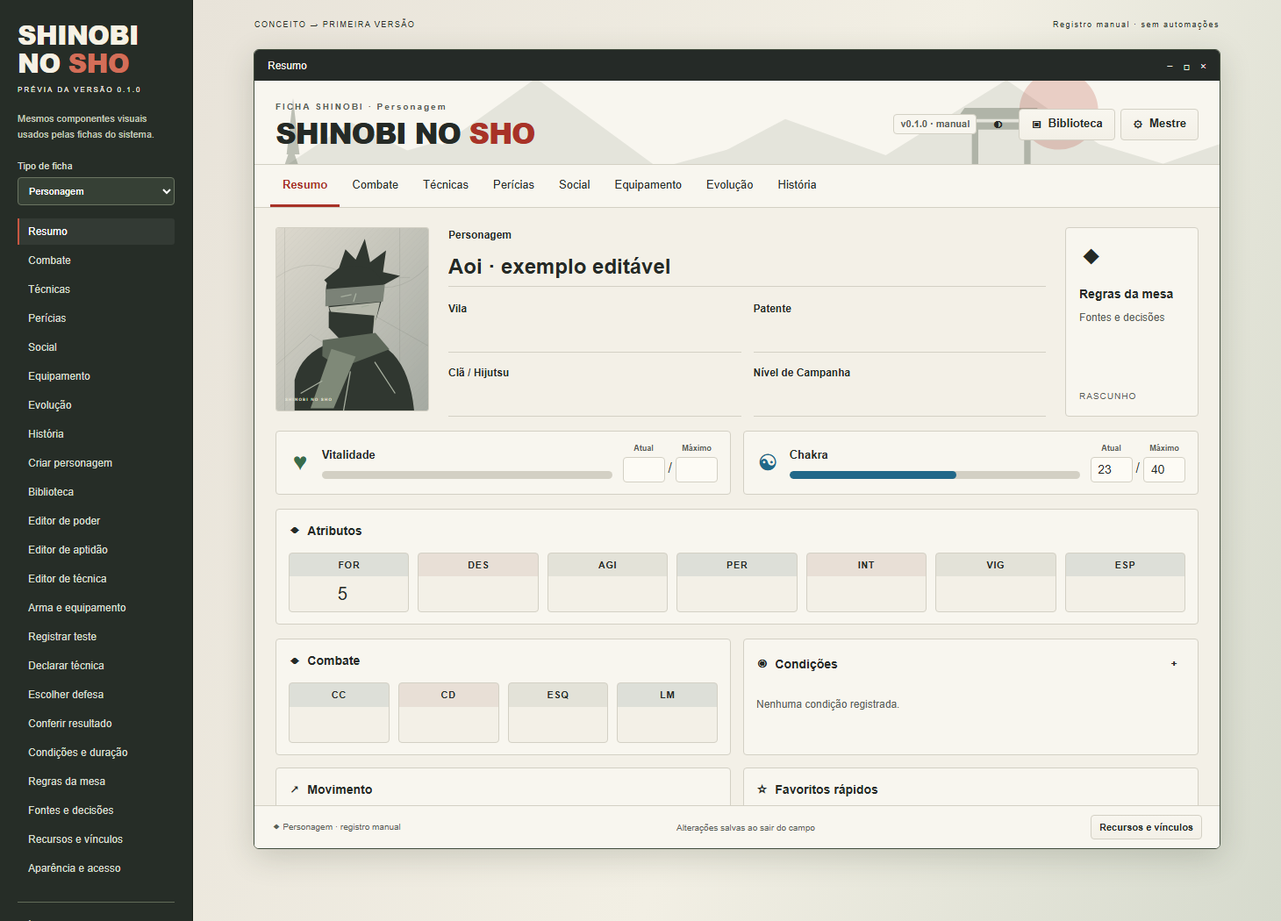
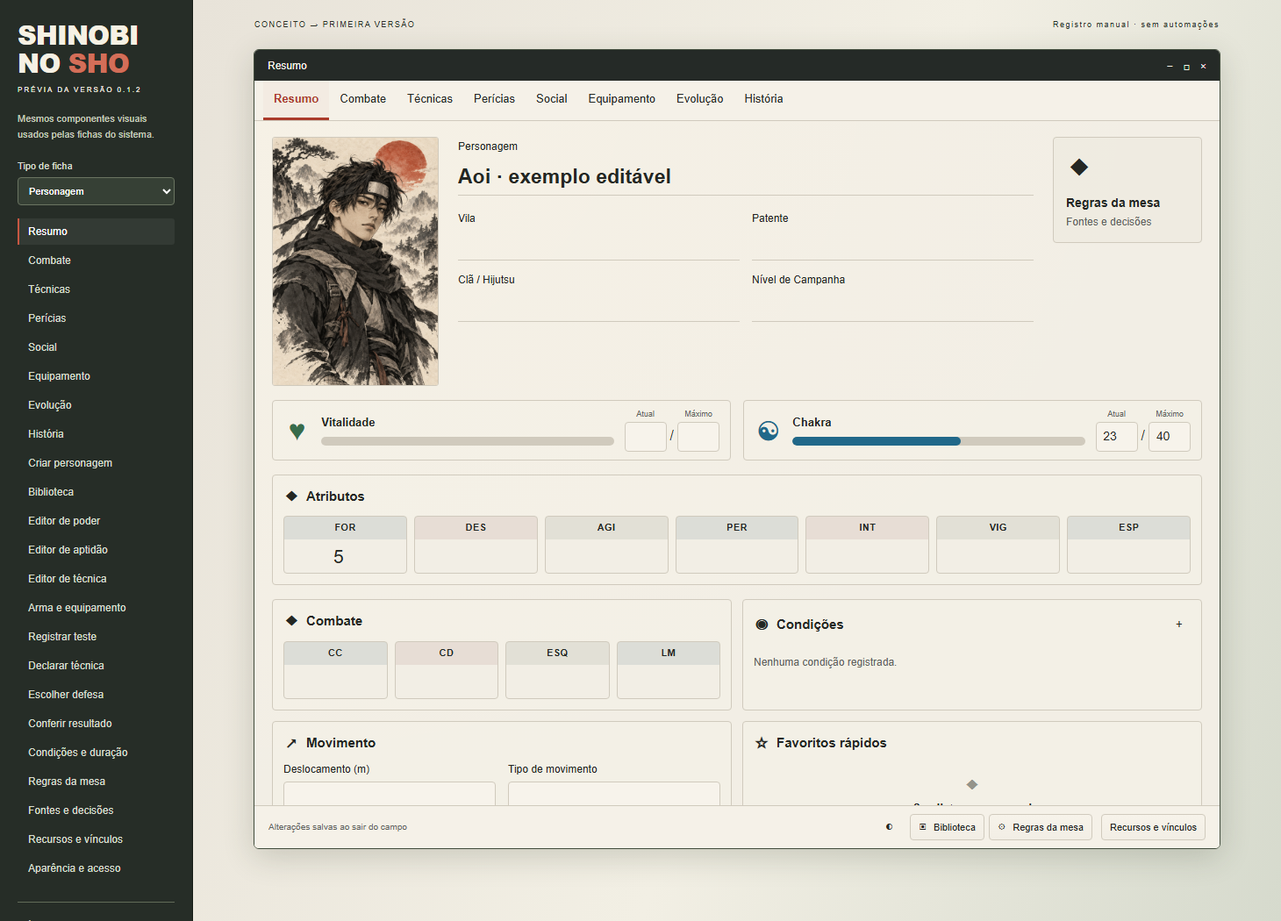
fix: aproxima layout dos conceitos e mantém cadastros na ficha

diff --git a/styles/concept.css b/styles/concept.css
@@ -1,0 +1,152 @@
+/* Composition aligned to the approved concept boards. Scoped overrides also
+   isolate the sheet from Foundry's heading fonts and fixed button heights. */
+.sns-app .sns-surface {
+  --sns-bg:#f2eee5;--sns-card:#f7f3ea;--sns-input:#f7f3eb;
+  --sns-ink:#242723;--sns-muted:#62645c;--sns-line:#d0cabd;
+  --sns-red:#ab3b2b;--sns-red-hover:#8c2d21;
+  --font-h1:Arial,sans-serif;--font-h2:Arial,sans-serif;
+  --font-h3:Arial,sans-serif;--font-h4:Arial,sans-serif;
+  font:14px/1.45 Arial,"Segoe UI",sans-serif;
+  background-image:radial-gradient(ellipse at top left,#fff8e750,transparent 70%);
+}
+.sns-app .sns-surface :is(h1,h2,h3,h4,label,strong,b,input,textarea,select,button,summary) {font-family:Arial,"Segoe UI",sans-serif;}
+.sns-app .sns-surface :is(h2,h3,h4) {text-transform:none;letter-spacing:0;}
+.sns-app .sns-surface h2 {font-size:21px;line-height:1.3;}
+.sns-app .sns-surface h3 {font-size:15px;line-height:1.35;}
+.sns-app .sns-surface button {height:auto;line-height:1.35;}
+.sns-app .sns-btn {font-size:13px;min-height:36px;padding:7px 12px;font-weight:500;}
+.sns-app .sns-btn.primary {background:linear-gradient(#b24634,#a43728);border-color:#943322;box-shadow:inset 0 1px 0 #ffffff24;}
+.sns-app .sns-btn.primary:hover {background:var(--sns-red-hover);}
+.sns-app .sns-body {padding:18px 20px;}
+.sns-app .sns-field>span {font-size:12px;font-weight:500;}
+.sns-app input:not([type=checkbox]),.sns-app select {min-height:34px;font-size:14px;line-height:1.4;}
+.sns-app textarea {font-size:14px;}
+.sns-app .sns-panel-heading {background:none;border:0;padding:14px 20px 0;}
+.sns-app .sns-panel-heading>h2 {font-size:18px;}
+.sns-app .sns-panel-heading>span {display:none;}
+.sns-app .sns-panel-heading:is(.sns-panel-create,.sns-panel-library,.sns-panel-settings,.sns-panel-sources,.sns-panel-resources,.sns-panel-impact) {display:none;}
+.sns-app .sns-tabs {padding:0 10px;background:#f5f1e8;min-height:45px;}
+.sns-app .sns-tabs button {font-size:13px;min-height:45px;padding:8px 12px;}
+.sns-app .sns-tabs button.active {background:#b34d3608;}
+.sns-app .sns-footer {padding:9px 16px;font-size:10px;gap:10px;background:#f5f1e8;}
+.sns-app .sns-footer .sns-btn {min-height:30px;}
+.sns-app .sns-sheet-tools {display:flex;align-items:center;gap:5px;margin-left:auto;flex-wrap:wrap;}
+.sns-app .sns-footer:has(.sns-sheet-tools)>span:first-child {display:none;}
+.sns-app .sns-identity {grid-template-columns:190px minmax(0,1fr) 170px;gap:22px;align-items:start;}
+.sns-app .sns-portrait {height:200px;border-radius:3px;}
+.sns-app .sns-portrait img {object-position:50% 29%;}
+.sns-app .sns-identity-fields {gap:18px;padding:3px 0;}
+.sns-app .sns-identity-fields>label input {font-size:23px;font-weight:600;}
+.sns-app .sns-identity-fields input {min-height:34px;}
+.sns-app .sns-profile-card {background:#e9e3d74d;min-height:105px;padding:14px;gap:5px;}
+.sns-app .sns-profile-card>i {font-size:30px;}
+.sns-app .sns-profile-card>strong {font-size:14px;}
+.sns-app .sns-profile-card>span {display:none;}
+.sns-app .sns-block {padding:12px;background:#f6f2e966;border-radius:4px;}
+.sns-app .sns-block>header {margin-bottom:10px;}
+.sns-app .sns-block>header h3>i {font-size:18px;}
+.sns-app .sns-resource {padding:9px 12px;background:#f6f2e966;}
+.sns-app .sns-resource-icon {font-size:33px;}
+.sns-app .sns-resource-main>strong {margin-bottom:6px;}
+.sns-app .sns-meter {height:10px;}
+.sns-app .sns-stat-grid {gap:8px;}
+.sns-app .sns-stat input {font-size:21px;min-height:38px;}
+.sns-app .sns-stat>span {font-size:11px;letter-spacing:.4px;}
+.sns-app .sns-two-columns {gap:12px;}
+.sns-app .sns-empty {min-height:85px;padding:12px;gap:5px;}
+.sns-app .sns-empty>p {font-size:11px;}
+.sns-app .sns-empty>.sns-btn {min-height:29px;font-size:12px;}
+.sns-app .sns-empty>i {font-size:19px;}
+.sns-app .sns-manual {font-size:11px;margin-top:12px!important;padding:10px 0;}
+.sns-app .sns-wizard-steps {position:relative;border:0;margin:0 0 22px;padding:0 0 17px;gap:0;border-bottom:1px solid var(--sns-line);}
+.sns-app .sns-wizard-steps:before {content:"";position:absolute;top:17px;left:10%;right:10%;height:2px;background:var(--sns-line);}
+.sns-app .sns-wizard-steps .sns-btn {position:relative;padding:0 3px;min-height:62px;font-size:12px;gap:9px;background:none;border:0;}
+.sns-app .sns-wizard-steps b {flex:none;width:34px!important;height:34px!important;min-height:34px;min-width:34px;line-height:1;aspect-ratio:1;background:#cec9be;border:0;font-size:16px;font-weight:500;border-radius:50%;box-shadow:inset 0 1px 2px #0000001c;}
+.sns-app .sns-wizard-steps .active {border:0;}
+.sns-app .sns-wizard-steps .active b {background:linear-gradient(#b94b37,#9e3527);color:white;}
+.sns-app .sns-wizard-identity {grid-template-columns:minmax(170px,.85fr) minmax(0,1fr);gap:26px;align-items:start;}
+.sns-app .sns-wizard-profile {padding-right:24px;border-right:1px solid var(--sns-line);min-width:0;}
+.sns-app .sns-wizard-profile>h3,.sns-app .sns-wizard-fields>h3 {margin:0 0 15px;}
+.sns-app .sns-wizard-profile>img {display:block;width:100%;max-width:250px;aspect-ratio:4/3;object-fit:cover;object-position:center 27%;border:1px solid var(--sns-line);border-radius:4px;margin:auto;}
+.sns-app .sns-caption {display:block;text-align:center;font-size:12px;margin:5px 0 18px;}
+.sns-app .sns-wizard-profile-rule {display:flex;flex-direction:column;gap:8px;font-size:12px;}
+.sns-app .sns-wizard-profile-rule strong {font-size:13px;font-weight:500;padding:9px;border:1px solid var(--sns-line);border-radius:4px;background:var(--sns-input);}
+.sns-app .sns-wizard-fields>.sns-field {margin-bottom:15px;}
+.sns-app .sns-wizard-fields input {min-height:36px;}
+.sns-app .sns-panel-footer {padding:12px 20px;}
+.sns-app .sns-panel-footer .sns-btn {font-size:13px;min-height:38px;padding:8px 16px;}
+.sns-app .sns-panel-footer [data-sns=finish-wizard] {margin-right:auto;}
+.sns-app .sns-editor-columns {display:grid;grid-template-columns:minmax(0,1fr) minmax(210px,.85fr);gap:24px;align-items:start;}
+.sns-app .sns-editor-main>h2 {margin-bottom:14px;font-size:20px;}
+.sns-app .sns-editor-main>.sns-field,.sns-app .sns-editor-main>.sns-form-grid {margin-bottom:14px;}
+.sns-app .sns-editor-side {padding-left:22px;border-left:1px solid var(--sns-line);min-width:0;}
+.sns-app .sns-editor-side>* {margin-bottom:16px;}
+.sns-app .sns-editor-side>h3 {margin-bottom:12px;}
+.sns-app .sns-technique-art {width:100%;height:310px;object-fit:cover;object-position:center 28%;border-radius:3px;border:1px solid var(--sns-line);}
+.sns-app [data-item-type=technique] .sns-editor-columns {grid-template-columns:minmax(0,1fr) 220px;}
+.sns-app .sns-editor-side>[data-sns=declare] {width:100%;}
+.sns-app .sns-source-details {margin:14px 0;border:1px solid var(--sns-line);border-radius:4px;padding:10px;}
+.sns-app .sns-source-details>summary {cursor:pointer;font-size:12px;font-weight:600;}
+.sns-app .sns-source-details[open]>summary {margin-bottom:12px;}
+.sns-app .sns-settings-grid {grid-template-columns:155px minmax(0,1fr);gap:20px;}
+.sns-app .sns-settings-nav {padding-right:14px;gap:6px;}
+.sns-app .sns-book {padding:8px 5px;border:1px solid var(--sns-line);border-radius:4px;background:#ebe4d73b;}
+.sns-app .sns-book-cover {max-width:54px;border-width:4px;border-left-width:7px;}
+.sns-app .sns-book-cover>b {font-size:10px;}
+.sns-app .sns-settings-grid>div>h3 {margin:18px 0 12px;}
+.sns-app .sns-decisions article {padding:10px;border:1px solid var(--sns-line);background:#f5f0e633;border-radius:3px;}
+.sns-app .sns-profile-diff>section {background:#e6e0d26b;}
+.sns-app .sns-profile-diff>section:last-child {background:#dce8ee66;border-color:#bdcdd4;}
+.sns-app .sns-library-columns {display:grid;grid-template-columns:minmax(0,1.2fr) minmax(210px,.8fr);gap:18px;min-height:300px;}
+.sns-app .sns-library-list {padding-right:14px;border-right:1px solid var(--sns-line);}
+.sns-app .sns-library-detail {padding:14px;background:#e6dfd140;border:1px solid var(--sns-line);border-radius:4px;min-width:0;}
+.sns-app .sns-library-title {display:flex;gap:10px;align-items:center;margin-bottom:16px;}
+.sns-app .sns-library-title>img {width:35px;height:35px;object-fit:contain;border:0;}
+.sns-app .sns-library-title h3 {margin-bottom:5px;}
+.sns-app .sns-library-art {display:block;width:100%;height:120px;object-fit:cover;object-position:center 20%;border-radius:3px;margin:15px 0;}
+.sns-app .sns-library-detail dl {display:grid;grid-template-columns:1fr 1fr;gap:12px;font-size:12px;}
+.sns-app .sns-library-detail dd {margin:0;color:var(--sns-muted);overflow-wrap:anywhere;}
+.sns-app .sns-library-placeholder {display:flex;flex-direction:column;align-items:center;text-align:center;justify-content:center;gap:14px;min-height:240px;}
+.sns-app .sns-library-placeholder>i {font-size:42px;color:var(--sns-muted);}
+.sns-app .sns-library-placeholder p {font-size:12px;color:var(--sns-muted);}
+.sns-app .sns-surface[data-theme=dark] {--sns-bg:#292e2b;--sns-card:#323832;--sns-input:#252b27;--sns-ink:#f1eee3;--sns-muted:#bfc5b8;--sns-line:#53594e;background-image:none;}
+.sns-app [data-theme=dark] :is(.sns-block,.sns-resource,.sns-tabs,.sns-footer,.sns-book) {background:#ffffff04;}
+.sns-app [data-theme=dark] .sns-profile-card {background:#ffffff08;}
+@container(max-width:760px) {
+ .sns-app .sns-identity {grid-template-columns:150px minmax(0,1fr);gap:18px;}
+ .sns-app .sns-profile-card {grid-column:1/-1;flex-direction:row;align-items:center;min-height:0;gap:12px;padding:9px 12px;}
+ .sns-app .sns-profile-card>i {font-size:22px;margin:0;}
+ .sns-app .sns-portrait {height:195px;}
+ .sns-app .sns-settings-grid {grid-template-columns:135px minmax(0,1fr);gap:16px;}
+ .sns-app .sns-settings-nav {flex-direction:column;border-bottom:0;border-right:1px solid var(--sns-line);padding:0 12px 0 0;}
+ .sns-app .sns-editor-columns,.sns-app [data-item-type=technique] .sns-editor-columns {grid-template-columns:minmax(0,1fr) minmax(160px,.85fr);gap:18px;}
+ .sns-app .sns-editor-side {padding-left:16px;}
+ .sns-app .sns-resource-grid {grid-template-columns:1fr 1fr;}
+}
+@container(max-width:560px) {
+ .sns-app .sns-library-columns {grid-template-columns:minmax(0,1fr);}
+ .sns-app .sns-library-list {border-right:0;padding-right:0;}
+ .sns-app .sns-wizard-identity,.sns-app .sns-editor-columns,.sns-app [data-item-type=technique] .sns-editor-columns {grid-template-columns:minmax(0,1fr);}
+ .sns-app .sns-wizard-profile {display:grid;grid-template-columns:100px minmax(0,1fr);gap:10px 16px;padding:0 0 16px;border-right:0;border-bottom:1px solid var(--sns-line);}
+ .sns-app .sns-wizard-profile>h3 {grid-column:1/-1;margin:0;}
+ .sns-app .sns-wizard-profile>img {grid-row:2/4;height:125px;aspect-ratio:auto;}
+ .sns-app .sns-wizard-profile>.sns-caption {display:none;}
+ .sns-app .sns-editor-side {border-left:0;border-top:1px solid var(--sns-line);padding:18px 0 0;}
+ .sns-app .sns-technique-art {height:160px;}
+ .sns-app .sns-settings-grid {grid-template-columns:minmax(0,1fr);}
+ .sns-app .sns-settings-nav {flex-direction:row;flex-wrap:wrap;border:0;padding:0;}
+ .sns-app .sns-settings-nav>strong {display:none;}
+ .sns-app .sns-resource-grid {grid-template-columns:minmax(0,1fr);}
+ .sns-app .sns-identity {grid-template-columns:95px minmax(0,1fr);gap:12px;}
+ .sns-app .sns-portrait {height:140px;}
+ .sns-app .sns-identity-fields {gap:10px;}
+ .sns-app .sns-identity-fields>label input {font-size:19px;}
+ .sns-app .sns-profile-card small {display:none;}
+ .sns-app .sns-wizard-steps .sns-btn {font-size:10px;}
+ .sns-app .sns-wizard-steps b {width:29px!important;height:29px!important;min-width:29px;min-height:29px;font-size:14px;}
+ .sns-app .sns-wizard-steps:before {top:14px;}
+ .sns-app .sns-body {padding:14px;}
+ .sns-app .sns-sheet-tools {margin:0;}
+ .sns-app .sns-footer {gap:5px;padding:8px 12px;}
+}
+@container(max-width:360px) {.sns-app .sns-identity {grid-template-columns:minmax(0,1fr);}.sns-app .sns-portrait {width:90px;}.sns-app .sns-editor .sns-form-grid {grid-template-columns:minmax(0,1fr);}}

diff --git a/preview/index.html b/preview/index.html
@@ -1,1 +1,1 @@
-<!doctype html><html lang="pt-BR"><head><meta charset="utf-8"><meta name="viewport" content="width=device-width, initial-scale=1"><title>Shinobi no Sho — prévia da interface</title><link rel="stylesheet" href="/styles/shinobi.css"><link rel="stylesheet" href="/preview/preview.css"></head><body><aside class="preview-sidebar"><a class="preview-brand" href="#summary">SHINOBI<br>NO <em>SHO</em><small id="preview-version">PRÉVIA DA INTERFACE</small></a><p>Mesmos componentes visuais usados pelas fichas do sistema.</p><label class="preview-label">Tipo de ficha<select id="actor-type"><option value="character">Personagem</option><option value="creature">Criatura vinculada</option><option value="puppet">Marionete</option></select></label><nav id="preview-navigation" aria-label="Telas da prévia"></nav><footer><strong>Prévia independente</strong><p>Não é uma sessão do Foundry. Edições ficam neste navegador; nenhum mundo é alterado.</p><button id="reset-preview" type="button">Restaurar exemplo</button></footer></aside><main><header class="preview-top"><span>CONCEITO → PRIMEIRA VERSÃO</span><span id="preview-state" role="status" aria-live="polite">Registro manual · sem automações</span></header><div class="preview-window sns-app"><header class="preview-titlebar"><span id="preview-title">Ficha do personagem</span><span aria-hidden="true">−　□　×</span></header><form class="sns-surface" id="surface"></form></div><section id="preview-chat" class="sns-app" aria-label="Registros de chat da prévia"></section></main><script type="module" src="/preview/preview.mjs"></script></body></html>
+<!doctype html><html lang="pt-BR"><head><meta charset="utf-8"><meta name="viewport" content="width=device-width, initial-scale=1"><title>Shinobi no Sho — prévia da interface</title><link rel="stylesheet" href="/styles/shinobi.css"><link rel="stylesheet" href="/styles/concept.css"><link rel="stylesheet" href="/preview/preview.css"></head><body><aside class="preview-sidebar"><a class="preview-brand" href="#summary">SHINOBI<br>NO <em>SHO</em><small id="preview-version">PRÉVIA DA INTERFACE</small></a><p>Mesmos componentes visuais usados pelas fichas do sistema.</p><label class="preview-label">Tipo de ficha<select id="actor-type"><option value="character">Personagem</option><option value="creature">Criatura vinculada</option><option value="puppet">Marionete</option></select></label><nav id="preview-navigation" aria-label="Telas da prévia"></nav><footer><strong>Prévia independente</strong><p>Não é uma sessão do Foundry. Edições ficam neste navegador; nenhum mundo é alterado.</p><button id="reset-preview" type="button">Restaurar exemplo</button></footer></aside><main><header class="preview-top"><span>CONCEITO → PRIMEIRA VERSÃO</span><span id="preview-state" role="status" aria-live="polite">Registro manual · sem automações</span></header><div class="preview-window sns-app"><header class="preview-titlebar"><span id="preview-title">Ficha do personagem</span><span aria-hidden="true">−　□　×</span></header><form class="sns-surface" id="surface"></form></div><section id="preview-chat" class="sns-app" aria-label="Registros de chat da prévia"></section></main><script type="module" src="/preview/preview.mjs"></script></body></html>

diff --git a/styles/shinobi.css b/styles/shinobi.css
@@ -11,7 +11,7 @@
 .sns-app h2 {font-size:24px;font-weight:700;letter-spacing:-.5px;}
 .sns-app h3 {font-size:14px;font-weight:700;}
 .sns-app small,.sns-app .sns-hint {font-size:12px;color:var(--sns-muted);}
-.sns-app input,.sns-app textarea,.sns-app select,.sns-app button {font:inherit;letter-spacing:normal;box-shadow:none;}
+.sns-app .sns-surface :is(input,textarea,select,button) {font:inherit;letter-spacing:normal;box-shadow:none;}
 .sns-app input:not([type=checkbox]),.sns-app textarea,.sns-app select {width:100%;min-width:0;min-height:36px;border:1px solid var(--sns-line);border-radius:4px;padding:6px 9px;background:var(--sns-input);color:var(--sns-ink);height:auto;}
 .sns-app textarea {resize:vertical;line-height:1.6;}
 .sns-app input::placeholder {color:var(--sns-muted);opacity:1;}

diff --git a/docs/VALIDACAO.md b/docs/VALIDACAO.md
@@ -1,10 +1,10 @@
-# Validação das versões 0.1.0 e 0.1.1
+# Validação até a versão 0.1.2
 
 Data: 21/10/2026. Alvo: Foundry VTT 14. Interface manual em português brasileiro.
 
 ## Evidência executada
 
-- 12 testes de código aprovados com Node.js 24: manifesto e versões, campos manuais, renderização das fichas e painéis, decisões da mesa, escape de conteúdo, caminhos de gravação, permissões e privacidade dos registros no chat.
+- 14 testes de código aprovados com Node.js 24: manifesto e versões, campos manuais, renderização das fichas e painéis, decisões da mesa, escape de conteúdo, caminhos de gravação, permissões e privacidade dos registros no chat.
 - Os testes da integração com documentos e chat usam substitutos de classes do Foundry. Eles verificam o código do adaptador, sem executar o programa Foundry.
 - Prévia executada em Chromium com os mesmos componentes, estilos e eventos de formulário das fichas: 23 áreas abertas sem erros de JavaScript e com controles nomeados.
 - Valores editados persistem após recarregar a prévia; busca ignora acentos; navegação por setas mantém foco; condições e reservas específicas são cadastradas e aparecem nas listas.
@@ -12,6 +12,13 @@ Data: 21/10/2026. Alvo: Foundry VTT 14. Interface manual em português brasileir
 - Perfil documental salvo após revisão de impacto. Temas claro e escuro e fichas de personagem, criatura e marionete renderizados.
 - Resumo, perícias, técnica, configurações e assistente verificados em telas de 320 e 420 pixels de largura. Abas e tabela de perícias têm rolagem própria; o restante se reorganiza em colunas menores.
 - ZIP conferido com leitor independente: integridade CRC, manifesto na raiz, caminhos de arquivos e ausência de PDFs, credenciais, mundos e arquivos locais de desenvolvimento.
+
+## Correções verificadas na 0.1.2
+
+- Cadastro dos cinco tipos de item a partir de uma ficha chama apenas a criação de documentos incorporados ao Actor; o diretório global não é alterado. O teste reproduz `Actor.documentName` estático da API v14.
+- Sem contexto de personagem, um cadastro pessoal é recusado, em vez de criar silenciosamente no mundo. Criação global exige a ação explícita da biblioteca compartilhada.
+- Teste no navegador confere que uma fonte de ícones definida no cabeçalho externo à ficha não é substituída, que títulos internos usam Arial mesmo sob um estilo genérico serifado e que as etapas do assistente mantêm círculos. Esse teste usa uma estrutura de cabeçalho simulada, sem afirmar execução do Foundry.
+- Pontos de perícia persistem após recarregar; não existe mais caixa de treinamento na ficha. Precisão permanece manual, sem aplicação automática de restrições.
 
 ## Limite atual
 

diff --git a/RELEASE-NOTES.md b/RELEASE-NOTES.md
@@ -1,11 +1,13 @@
-Correção 0.1.1 da declaração de compatibilidade para **Foundry VTT 14.367**.
+**Shinobi no Sho 0.1.2 — interface e armazenamento dos cadastros**
 
-O manifesto anterior não tinha `compatibility.verified`, causando o indicador de compatibilidade desconhecida. A nova versão inclui esse campo e mantém os limites na geração 14. Sem alteração das regras ou das fichas.
+- Ficha e criação reorganizadas para seguir os conceitos, sem o cabeçalho grande de montanhas. Novo retrato ilustrado, tipografia consistente e editores em colunas.
+- Biblioteca com consulta lateral e contexto pessoal.
+- Poderes, aptidões, técnicas, equipamentos e dispositivos criados na ficha ficam dentro dela, sem aparecer no diretório de Itens. A biblioteca acessada pelo diretório continua criando modelos compartilhados.
+- Caixa de treinamento removida; perícias passam a mostrar pontos investidos e precisão manual.
+- Estilos de fonte corrigidos para não substituir os ícones dos controles nativos da janela.
 
-Em **Sistemas de Jogo**, atualize Shinobi no Sho para **0.1.1**. Se a atualização não aparecer, use **Instalar Sistema** com o mesmo manifesto:
+Atualize para **0.1.2**, reinicie o mundo e reabra as fichas. Registros globais criados anteriormente são preservados; não são movidos ou apagados automaticamente. Arraste os registros que desejar do diretório para a ficha.
 
-https://github.com/darkmonsterpro0-droid/shinobi-no-sho/releases/latest/download/system.json
+Manifesto: https://github.com/darkmonsterpro0-droid/shinobi-no-sho/releases/latest/download/system.json
 
-Depois, recarregue a configuração do Foundry e abra novamente a criação de mundo.
-
-Os registros reais confirmam instalação do pacote no Foundry 14.367. A seleção do sistema na criação de mundo após esta correção e os fluxos dentro do mundo ainda aguardam confirmação. Veja docs/VALIDACAO.md.
+14 testes de código e verificação da prévia em Chromium aprovados. Os testes do adaptador usam substitutos das classes do Foundry; a interação após a atualização dentro do mundo real ainda depende de confirmação. Mantida compatibilidade declarada com Foundry 14.367. Sem automação de regras.

diff --git a/README.md b/README.md
@@ -1,6 +1,6 @@
 # Shinobi no Sho — Foundry VTT 14
 
-**Versão 0.1.1 · fichas manuais · português brasileiro**
+**Versão 0.1.2 · fichas manuais · português brasileiro**
 
 Primeira versão com foco na interface: marfim, grafite, vermelho discreto e leitura clara, seguindo os conceitos visuais preparados para o projeto. Valores e decisões permanecem sob controle da mesa.
 
@@ -29,13 +29,14 @@ Também é possível baixar o ZIP em [Releases](https://github.com/darkmonsterpr
 - Edita e salva fichas de personagem, criatura vinculada e marionete.
 - Organiza resumo, combate, técnicas, perícias, social, equipamento, evolução e história.
 - Permite criar poderes, aptidões, técnicas, equipamentos e dispositivos, com fonte e notas.
-- Oferece busca, favoritos, biblioteca de itens do mundo e o arrastar nativo do Foundry.
+- Oferece busca, favoritos e biblioteca pessoal na ficha. Poderes, aptidões, técnicas, equipamentos e dispositivos criados ali ficam no personagem e não no diretório de Itens.
+- A Biblioteca Shinobi do diretório de Itens é compartilhada e cria modelos do mundo explicitamente. Itens antigos do mundo são preservados; podem ser arrastados para a ficha pelo recurso nativo do Foundry.
 - Registra condições, recursos especiais e vínculos manualmente.
 - Publica anotações de testes, declarações, defesas e resultados no chat, com visibilidade pública, privada ao mestre ou pessoal.
 - Guarda livros, variantes e decisões no perfil do mestre; permite revisar o impacto documental antes de salvar.
 - Possui temas marfim e grafite e fichas que se reorganizam em janelas estreitas.
 
-Os campos salvam ao sair deles. Números em branco ainda não foram preenchidos. Patente, NC, precisões, recursos máximos e pontos não são derivados automaticamente. Treinamento é uma anotação; a mesa consulta os requisitos da perícia.
+Os campos salvam ao sair deles. Números em branco ainda não foram preenchidos. Patente, NC, precisões, recursos máximos e pontos não são derivados automaticamente. Perícias têm pontos investidos e precisão manual, sem caixa de treinamento; a mesa consulta os usos restritos e exceções na fonte.
 
 ## O que fica manual
 

diff --git a/docs/ARTE.md b/docs/ARTE.md
@@ -1,0 +1,7 @@
+# Retrato da interface
+
+Arquivo: [shinobi-portrait.png](../assets/shinobi-portrait.png). Criado com a ferramenta integrada image_gen em 21/10/2026, sem CLI ou chave de API do usuário. Usado no assistente, retrato padrão e ilustração dos editores.
+
+## Prompt utilizado
+
+Use case: stylized-concept. Asset type: original portrait illustration for Shinobi no Sho tabletop character sheet and creation wizard. Create one polished vertical 2:3 image, Japanese sumi-e ink wash manga illustration on warm ivory washi paper, mostly monochrome charcoal ink with a single muted vermilion sun in upper background. Original young adult male shinobi, tousled dark hair, forehead protector with a plain metal plate WITHOUT any village emblem or text, layered travel jacket, scarf, practical shinobi clothing, thoughtful calm expression, head and torso three-quarter portrait. Highly detailed hand drawn face, hair and cloth folds, beautiful ink brushwork, atmospheric pale mountain and pine silhouettes in background. Restrained elegant editorial illustration matching parchment RPG UI concept art, NOT flat vector art, NOT geometric, NOT chibi, NOT photorealistic, no text, no lettering, no logos, no watermark, no UI panels. Subject centered, face clearly readable even at 180px, portrait fills the frame without a large empty border.

diff --git a/CHANGELOG.md b/CHANGELOG.md
@@ -1,5 +1,16 @@
 # Histórico de versões
 
+## 0.1.2 — 2026-10-21
+
+- Reorganiza ficha, assistente e editores conforme a composição das artes: cabeçalhos compactos, colunas, fontes sem serifa e retrato em tinta sobre papel.
+- Biblioteca com lista e prévia lateral; perfil e referências com visual mais discreto.
+- Corrige a identificação do Actor pela propriedade estática documentada no Foundry 14. Cadastros pela ficha agora são incorporados ao personagem. Sem criação global como alternativa silenciosa.
+- Biblioteca pessoal e modelos compartilhados são contextos diferentes; registros existentes não são apagados ou movidos automaticamente.
+- Retira a coluna Treinamento e acrescenta pontos investidos, mantendo precisão manual. Valores antigos de precisão são preservados.
+- Restringe os estilos de fonte dos botões ao conteúdo das fichas, preservando a fonte dos controles nativos da janela.
+- Adiciona testes para propriedade dos cadastros, biblioteca pessoal/compartilhada, isolamento das fontes e persistência dos pontos de perícia.
+
+
 ## 0.1.1 — 2026-10-21
 
 - Declara Foundry 14.367 no campo `compatibility.verified`, que estava ausente e produzia compatibilidade desconhecida.

diff --git a/CREDITS.md b/CREDITS.md
@@ -9,3 +9,5 @@ Referências de projeto: Livro Básico 4.1b; Livro de Hijutsus 4.1b; Livro de Hi
 Naruto pertence a Masashi Kishimoto / Shueisha e demais titulares pertinentes. Foundry Virtual Tabletop é produto de Foundry Gaming LLC. Este projeto é uma implementação comunitária independente, sem afiliação oficial.
 
 Os SVGs de retrato, marionete e paisagem são originais deste projeto. Ícones `icons/svg/` e Font Awesome são carregados da instalação do Foundry, sem cópia desses recursos no pacote. A prévia independente usa símbolos de substituição para os ícones.
+
+O retrato `assets/shinobi-portrait.png` foi gerado com a ferramenta integrada de imagens para este projeto. Prompt e finalidade estão em docs/ARTE.md. Não é uma ilustração extraída dos livros.
